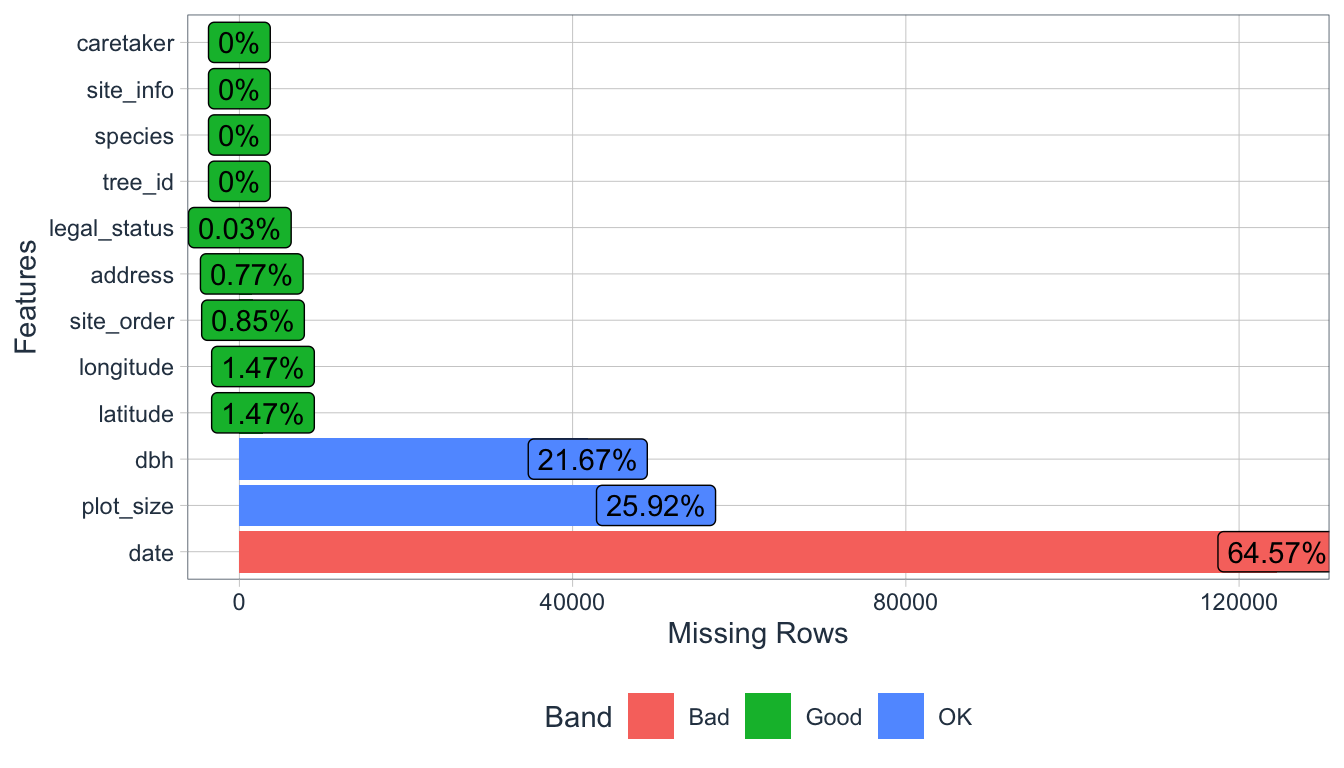
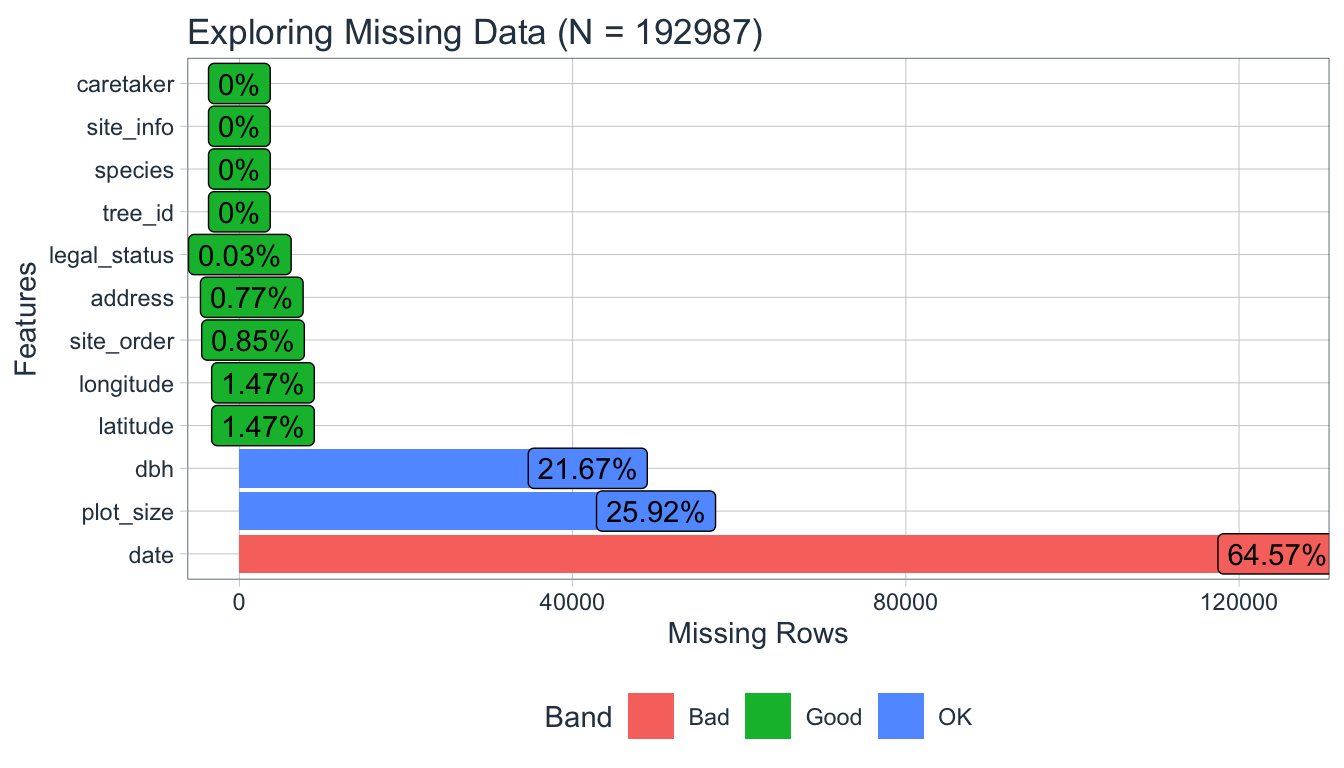
added title to plot

Changed region(s): [[0.0, 0.0, 1.0, 0.75]]

diff --git a/public/post/advanced-plots-in-r-with-str_glue/index.html b/public/post/advanced-plots-in-r-with-str_glue/index.html
@@ -172,8 +172,10 @@ sf_trees_data_raw_tbl &lt;- readr::read_csv(&#39;https://raw.githubusercontent.c
 <div id="data-exploration" class="section level3">
 <h3>Data Exploration</h3>
 <p>Let’s take a quick peak and inspect the SF Trees Data.</p>
-<pre class="r"><code>plot_missing(sf_trees_data_raw_tbl, 
-             ggtheme = theme_tq())</code></pre>
+<pre class="r"><code>plot_missing(sf_trees_data_raw_tbl,
+             ggtheme = theme_tq(),
+             title = str_glue(
+               &#39;Exploring Missing Data (N = {count(sf_trees_data_raw_tbl)})&#39;))</code></pre>
 <p><img src="/post/2020-05-03-advanced-plots-in-r-with-str_glue_files/figure-html/unnamed-chunk-2-1.png" width="672" /></p>
 <p>This is a fairly small data-set with only 12 columns. For the purpose of demonstration, let’s see what we can do with just the species column.</p>
 <p>The Coastal Redwoods in the SF area are incredible and one of my favorite species. I’m curious if other species of Redwoods are in SF and if so, at what proportions do they exist relative to the Coastal Redwoods.</p>

diff --git a/content/post/2020-05-03-advanced-plots-in-r-with-str_glue.html b/content/post/2020-05-03-advanced-plots-in-r-with-str_glue.html
@@ -42,8 +42,10 @@ sf_trees_data_raw_tbl &lt;- readr::read_csv(&#39;https://raw.githubusercontent.c
 <div id="data-exploration" class="section level3">
 <h3>Data Exploration</h3>
 <p>Let’s take a quick peak and inspect the SF Trees Data.</p>
-<pre class="r"><code>plot_missing(sf_trees_data_raw_tbl, 
-             ggtheme = theme_tq())</code></pre>
+<pre class="r"><code>plot_missing(sf_trees_data_raw_tbl,
+             ggtheme = theme_tq(),
+             title = str_glue(
+               &#39;Exploring Missing Data (N = {count(sf_trees_data_raw_tbl)})&#39;))</code></pre>
 <p><img src="/post/2020-05-03-advanced-plots-in-r-with-str_glue_files/figure-html/unnamed-chunk-2-1.png" width="672" /></p>
 <p>This is a fairly small data-set with only 12 columns. For the purpose of demonstration, let’s see what we can do with just the species column.</p>
 <p>The Coastal Redwoods in the SF area are incredible and one of my favorite species. I’m curious if other species of Redwoods are in SF and if so, at what proportions do they exist relative to the Coastal Redwoods.</p>
